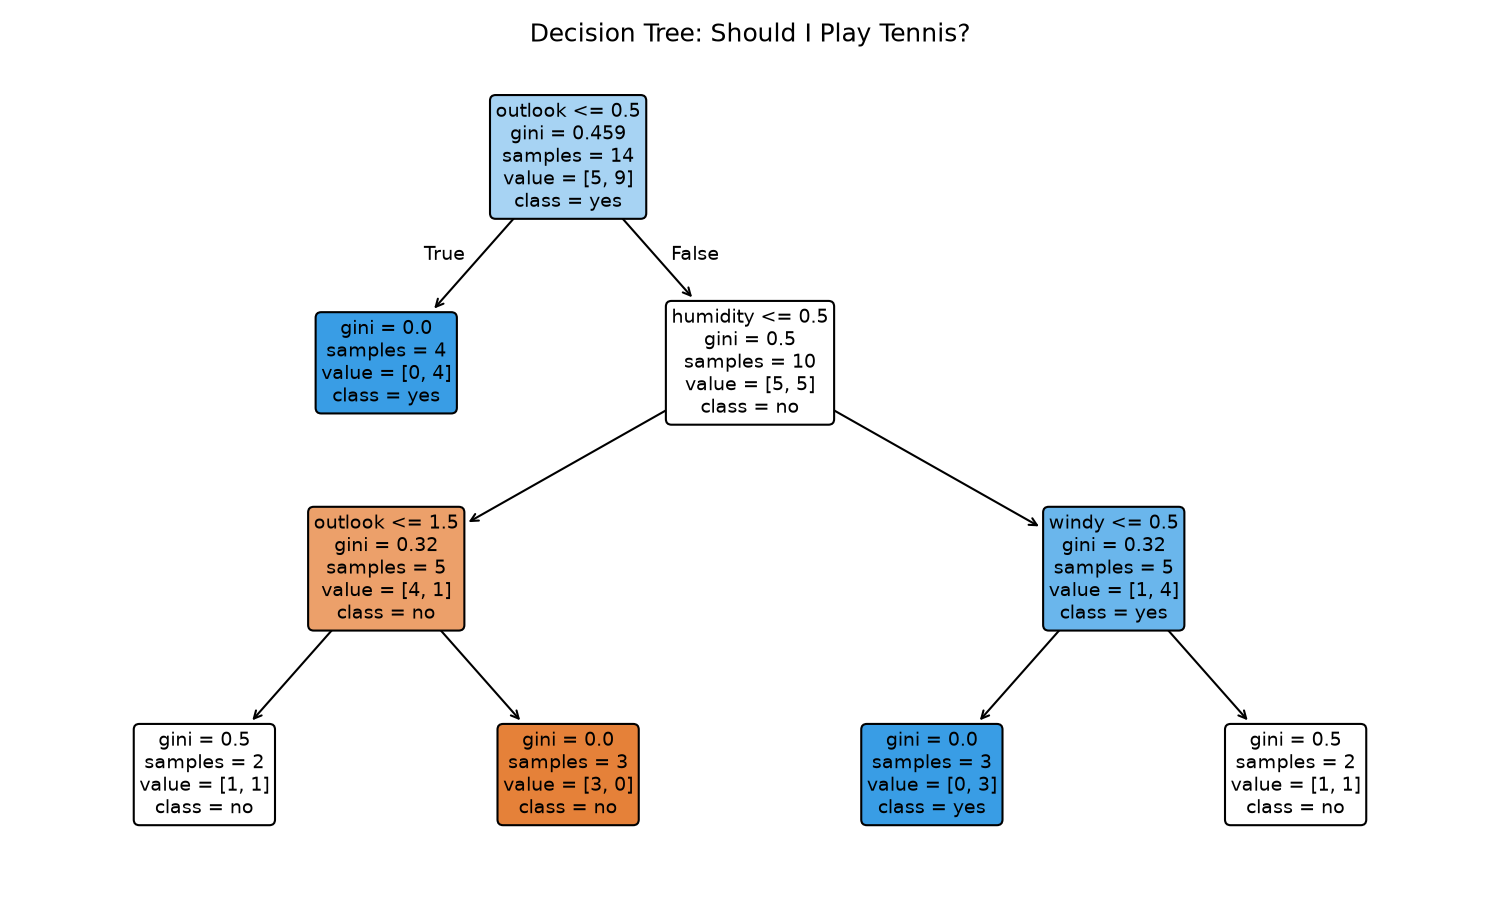
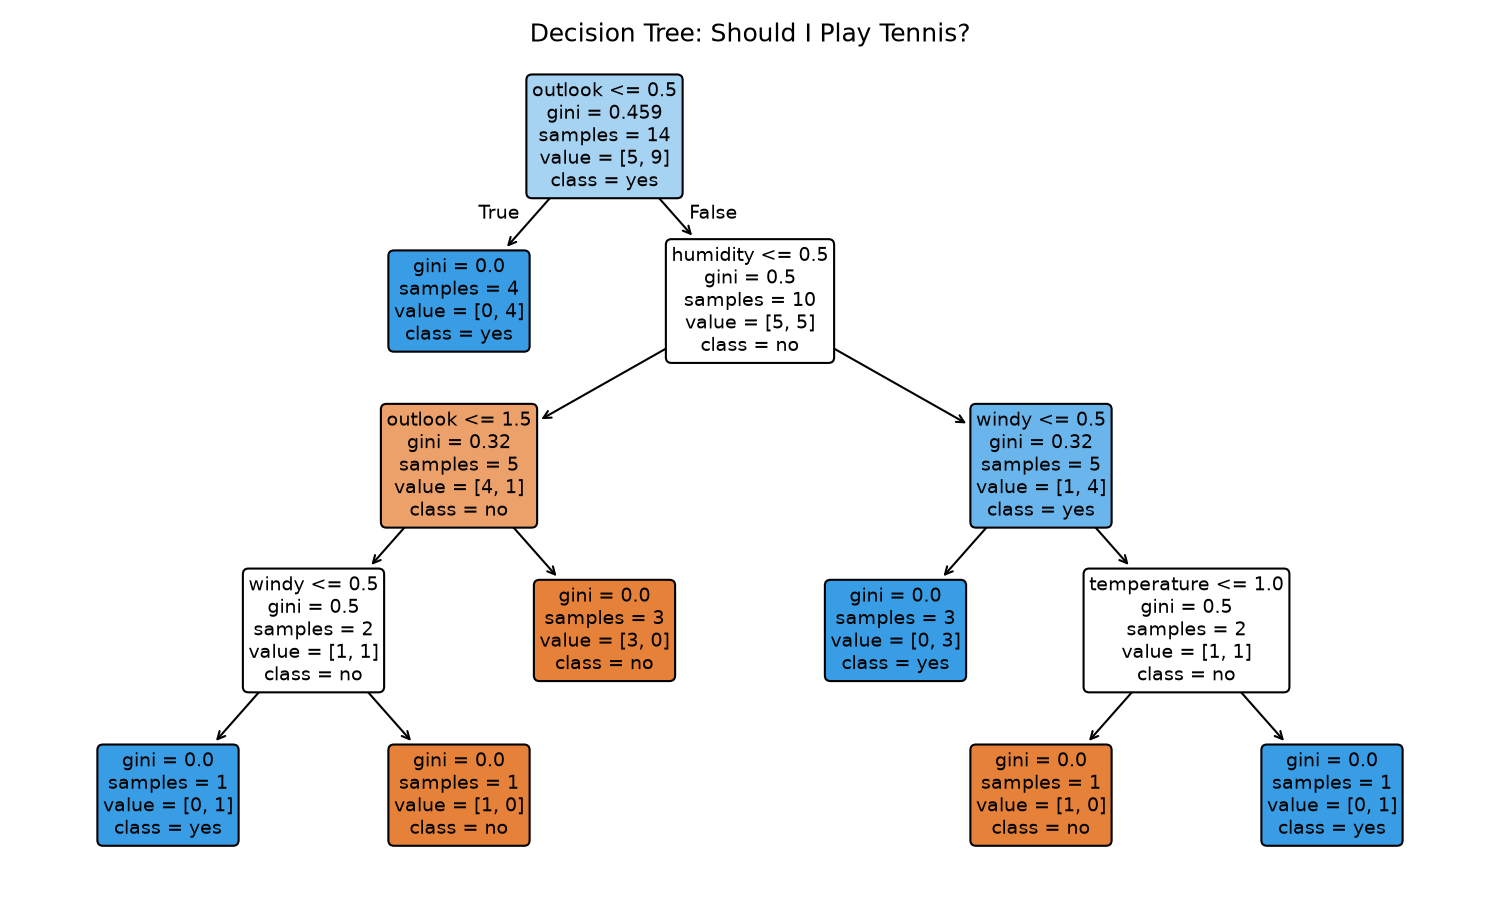
Finish out lab 3

diff --git a/jakefolder/lab3/lab3.py b/jakefolder/lab3/lab3.py
@@ -42,7 +42,9 @@ print(data)
 # X = the columns the model is allowed to look at
 # y = the column it's trying to predict
 X = data.drop(columns=["play_tennis"])   # TODO: is this right? check it.
+#print(X)
 y = data["play_tennis"]                  # TODO: is this right? check it.
+#print(y)
 
 # Decision trees in sklearn need numbers, not text, so we encode.
 encoder = OrdinalEncoder()
@@ -53,7 +55,7 @@ X_encoded = encoder.fit_transform(X)
 # -----------------------------------------------------------------
 # .fit(X, y) is the moment "learning" happens: the tree searches for
 # the sequence of yes/no questions about X that best predicts y.
-clf = DecisionTreeClassifier(max_depth=3, random_state=42)
+clf = DecisionTreeClassifier(max_depth=4, random_state=42)
 clf.fit(X_encoded, y)          # TODO: call fit with the right arguments
 
 # -----------------------------------------------------------------
@@ -93,5 +95,5 @@ print(f"Prediction: play_tennis = {prediction[0]}")
 # -----------------------------------------------------------------
 # Try changing max_depth to 1, then to 10. Re-run and compare the
 # tree diagrams and the training accuracy. What happens? Why?
-# accuracy = clf.score(X_encoded, y)
-# print(f"Training accuracy: {accuracy:.2%}")
+accuracy = clf.score(X_encoded, y)
+print(f"Training accuracy: {accuracy:.2%}")
